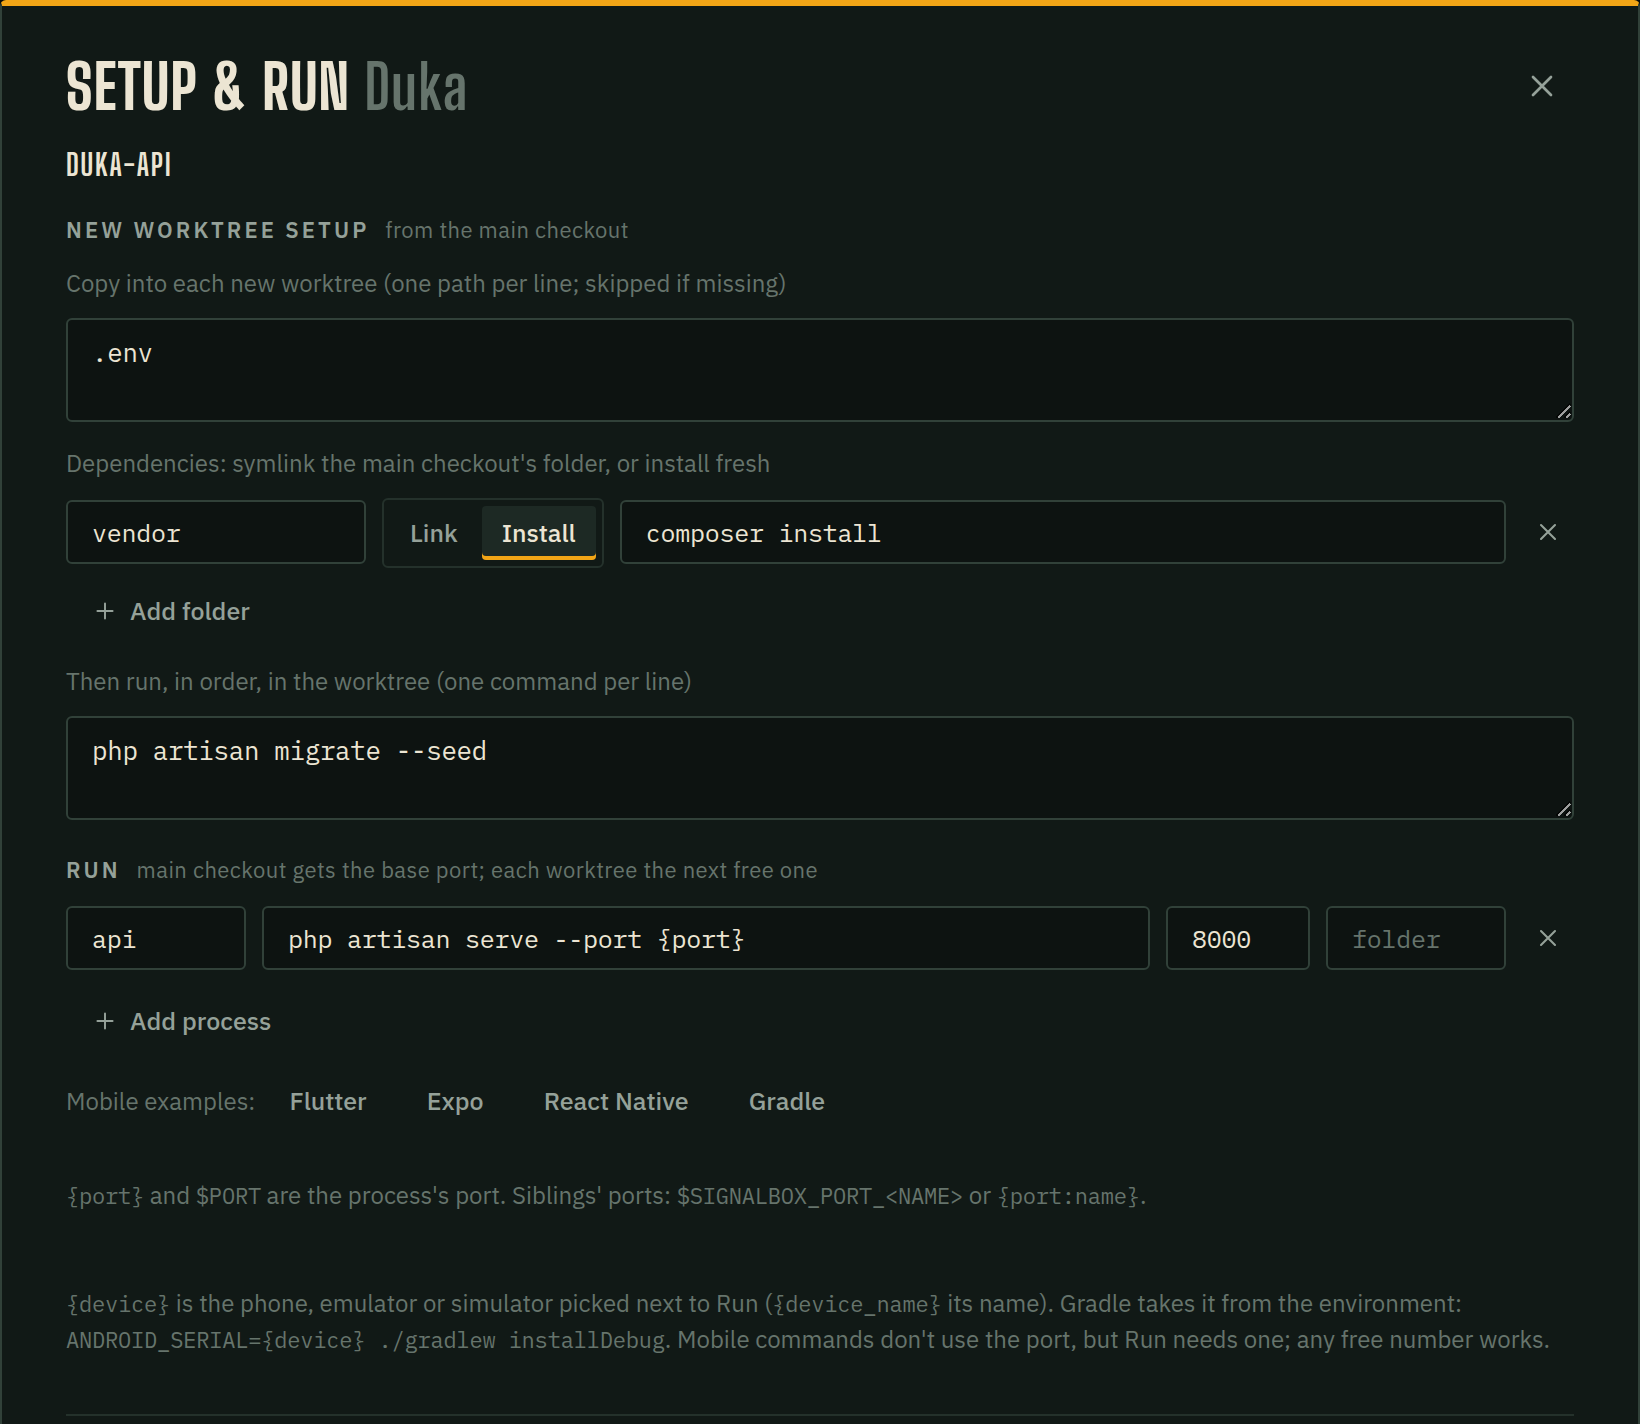
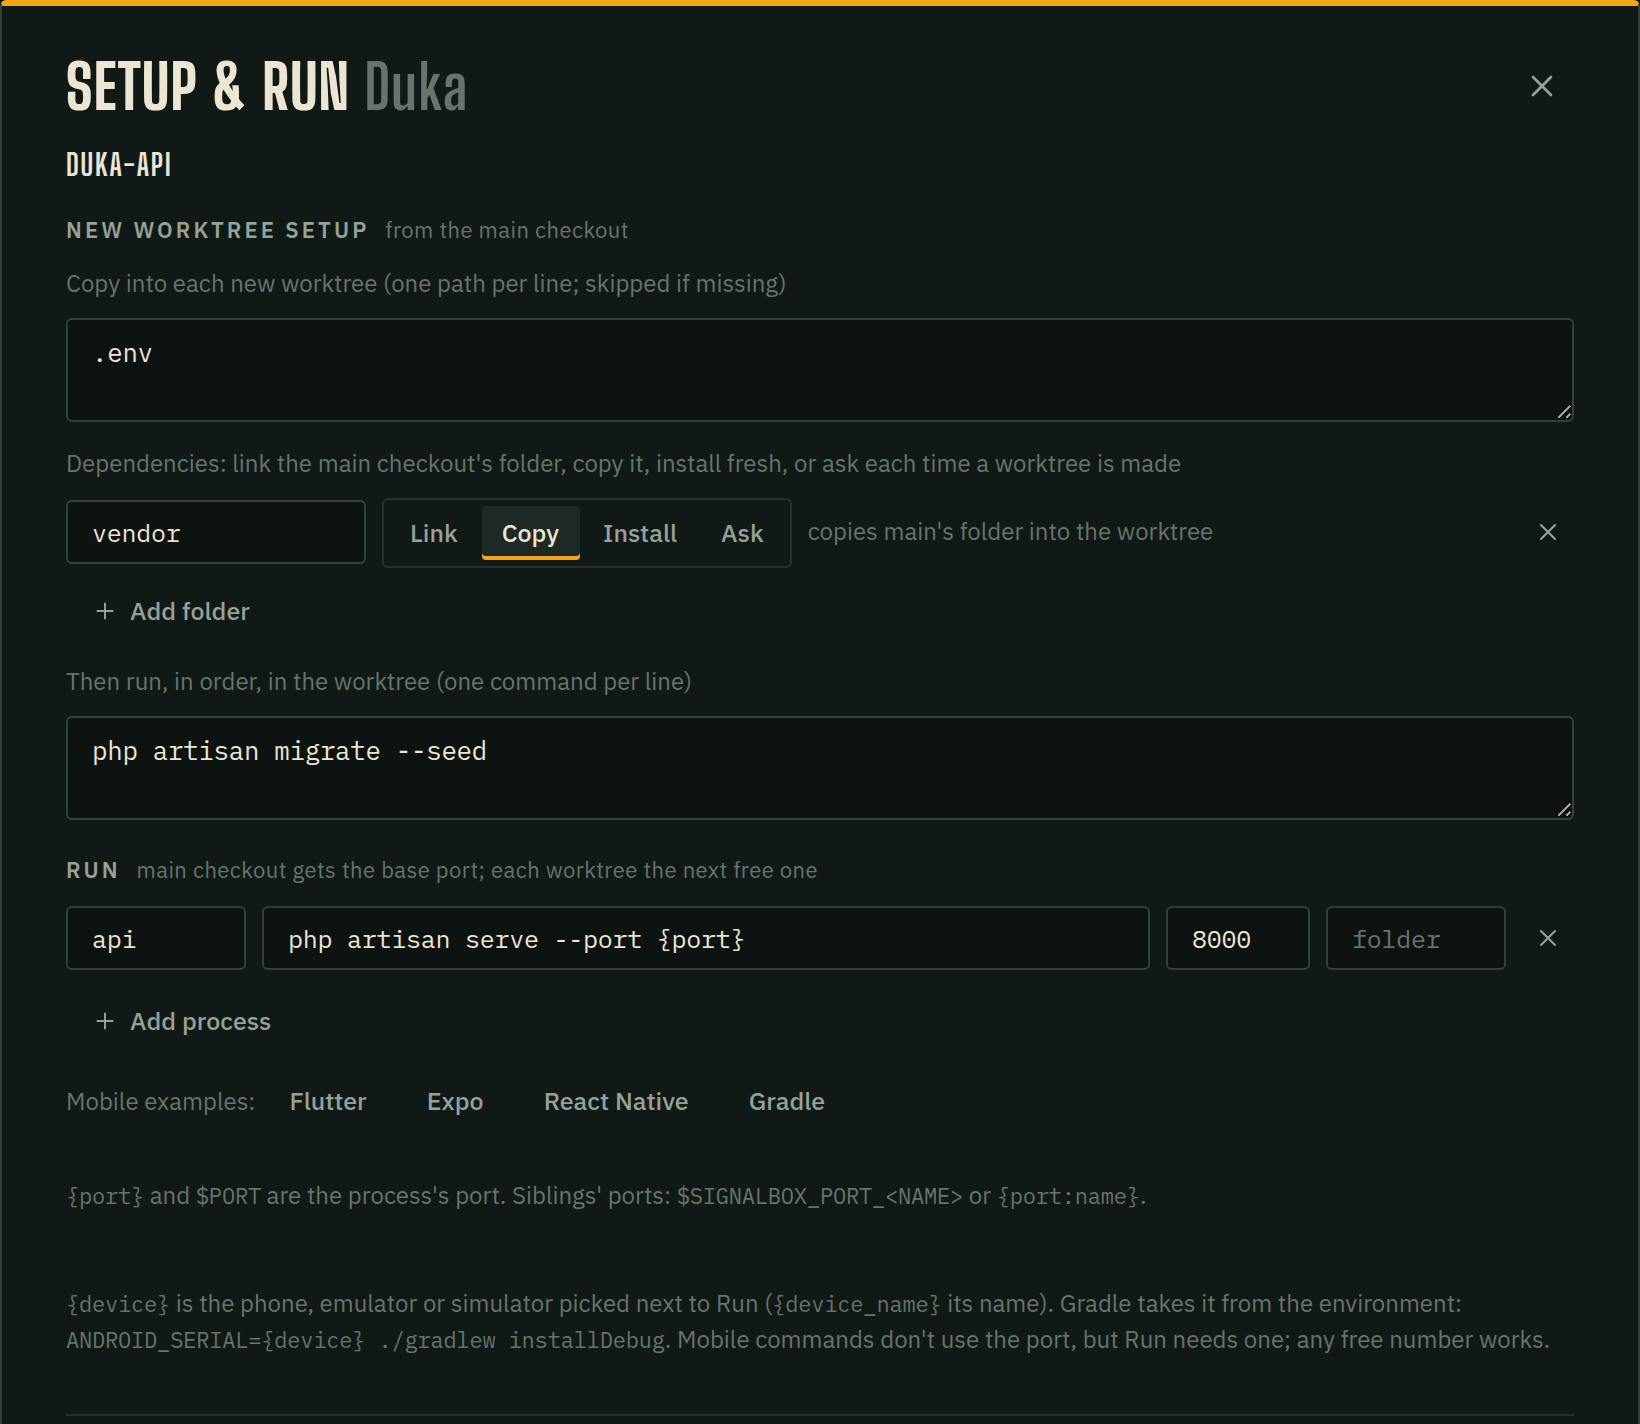
Sync from Signalbox v0.2.3

Changed region(s): [[0.1555, 0.309, 0.7152, 0.3399], [0.311, 0.3708, 0.7463, 0.4017]]

diff --git a/docs/manual/run-and-worktree-setup.md b/docs/manual/run-and-worktree-setup.md
@@ -2,7 +2,7 @@
 
 > Make new worktrees ready to use (.env, dependencies, setup commands), and run each checkout's dev servers on its own ports, or on a phone or emulator.
 
-Section: Work on code · Updated: 2026-11-23
+Section: Work on code · Updated: 2026-11-24
 
 A fresh worktree has your code but not your `.env` or installed dependencies, and two checkouts can't both run a dev server on the same port. Setup & run fixes both: a recipe that prepares each new worktree, and a **Run** button that starts the dev servers on free ports.
 
@@ -17,7 +17,7 @@ Either:
 
 ![The Setup & run settings for one repo: copy, dependencies, setup commands and run processes](images/setup-run.png)
 
-When a repo has nothing saved yet, Signalbox reads its main checkout and pre-fills what it recognises, such as Laravel, PHP, Vite or Next.js. Those repos show **pre-filled, not saved yet**. **Use detected** replaces a repo's settings with what was detected. Nothing is used until you click **Save**.
+When a repo has nothing saved yet, Signalbox reads its main checkout and pre-fills what it recognises, such as Laravel, PHP, Vite or Next.js. For a PHP project it sets `vendor` to **Copy**, and for a Node project it sets `node_modules` to **Link**. Those repos show **pre-filled, not saved yet**. **Use detected** replaces a repo's settings with what was detected. Nothing is used until you click **Save**.
 
 ## New worktree setup
 
@@ -26,23 +26,40 @@ This recipe runs every time Signalbox creates a worktree: from the **New ticket*
 Fill in, for each repo:
 
 1. **Copy into each new worktree:** one path per line, such as `.env`. Missing files are skipped.
-2. **Dependencies:** click **Add folder** for each one, type the folder (such as `node_modules`) and choose **Link** or **Install**. **Link** makes a symlink to the main checkout's copy: quick, and the two share it. **Install** runs a command instead, such as `npm ci` or `composer install`; it's skipped if the folder is already in the worktree.
+2. **Dependencies:** click **Add folder** for each one, type the folder (such as `node_modules`) and choose how it gets into the worktree:
+   - **Link** makes a symlink to the main checkout's folder. It's instant, and the two share it.
+   - **Copy** copies the main checkout's folder into the worktree. It's quick and needs no network, and the worktree gets its own copy. On disks that support it (APFS on macOS, Btrfs or XFS on Linux) the copy takes almost no extra space until files change.
+   - **Install** runs a command instead, such as `npm ci` or `composer install`.
+   - **Ask** asks you each time a worktree is made. See [Choose when the worktree is made](#choose-when-the-worktree-is-made).
+
+   Link, Copy and Install are skipped if the folder is already in the worktree.
 3. **Then run, in order, in the worktree:** one command per line, such as `php artisan key:generate`.
 4. Click **Save**.
 
-> **Warning:** Don't link `vendor` in a PHP project. PHP resolves symlinks, so the autoloader would load the main checkout's classes, not the worktree's. Signalbox flags this with **linked vendor autoloads main's code** and suggests `composer install` instead.
+> **Warning:** Don't link `vendor` in a PHP project. PHP resolves symlinks, so the autoloader would load the main checkout's classes, not the worktree's. Signalbox flags this with **linked vendor autoloads main's code**. Use **Copy** instead: a copied `vendor` loads the worktree's code, and it's much faster than `composer install`. Choose **Install** when the worktree's branch changes `composer.json` or `composer.lock`.
+
+### Choose when the worktree is made
+
+With a folder set to **Ask**, Signalbox asks before the setup runs. A small window lists each folder with **Link**, **Copy** and **Install**:
+
+1. Pick one for each folder. The one picked first is your last choice for that folder, or else what Signalbox would pick for it.
+2. To stop being asked, tick **Remember for this repo**. The folder is then set to your choice in the repo's settings. You can set it back to **Ask** in Setup & run.
+3. Click **Run setup**. Or click **Skip setup** to make the worktree without it; you can run it later.
+
+If Signalbox has no window open to ask in, each folder gets the choice that would have been picked first, and the Setup tab says so.
 
 ### What happens when a worktree is made
 
-1. Signalbox copies and links the files.
-2. It opens a **Setup** tab and runs the commands there, so you can watch. A message says "Setting up …: see its Setup tab".
-3. Each step shows ✓ or ✗. It ends with "✓ worktree ready", or stops at the first failing command.
+1. If a folder is set to **Ask**, Signalbox asks first.
+2. It copies and links the files.
+3. It opens a **Setup** tab and runs the commands there, so you can watch. A message says "Setting up …: see its Setup tab".
+4. Each step shows ✓ or ✗. It ends with "✓ worktree ready", or stops at the first failing command.
 
 Nothing is undone when a step fails. Fix the problem in the Setup tab's folder, then run the setup again.
 
 ### Run setup again
 
-In the rail, click the worktree under **Checkouts**, then **Run worktree setup**. It isn't offered for the main checkout.
+In the rail, click the worktree under **Checkouts**, then **Run worktree setup**. It isn't offered for the main checkout. Folders set to **Ask** are asked about here too.
 
 ## Run dev servers
 

diff --git a/README.md b/README.md
@@ -4,7 +4,7 @@ Signalbox is a desktop app for macOS and Linux that keeps your tickets, git bran
 
 ![The Signalbox board: loose ends grouped as held at develop or staging and pushed but not merged, each ticket with its branch's lamps on the track, and agent sessions running in the sidebar](docs/images/board.png)
 
-**[Download Signalbox 0.2.2](https://signalbox.accessa.co.ke/download/)** for macOS or Linux · [Website](https://signalbox.accessa.co.ke/) · [Guides](https://signalbox.accessa.co.ke/guides/) · [Changelog](CHANGELOG.md) · [Releases](https://github.com/Accessa-suite/signalbox-app/releases)
+**[Download Signalbox 0.2.3](https://signalbox.accessa.co.ke/download/)** for macOS or Linux · [Website](https://signalbox.accessa.co.ke/) · [Guides](https://signalbox.accessa.co.ke/guides/) · [Changelog](CHANGELOG.md) · [Releases](https://github.com/Accessa-suite/signalbox-app/releases)
 
 This repository holds Signalbox's releases, documentation and issue tracker. The source code isn't published here.
 
@@ -27,7 +27,7 @@ This repository holds Signalbox's releases, documentation and issue tracker. The
 
 ## Download and install
 
-The current version is **0.2.2**, released 23 November 2026. Download it from **[signalbox.accessa.co.ke/download](https://signalbox.accessa.co.ke/download/)**, where the files' SHA-256 checksums are listed, or from [GitHub Releases](https://github.com/Accessa-suite/signalbox-app/releases).
+The current version is **0.2.3**, released 24 November 2026. Download it from **[signalbox.accessa.co.ke/download](https://signalbox.accessa.co.ke/download/)**, where the files' SHA-256 checksums are listed, or from [GitHub Releases](https://github.com/Accessa-suite/signalbox-app/releases).
 
 Signalbox runs the coding agents you already use. Install at least one and log in to it: Claude Code (`claude`), Codex (`codex`), Gemini CLI (`gemini`) or opencode (`opencode`). You'll also want `git`, and `gh` if you use GitHub.
 

diff --git a/CHANGELOG.md b/CHANGELOG.md
@@ -2,6 +2,13 @@
 
 Every Signalbox release, newest first. Also on [the website](https://signalbox.accessa.co.ke/changelog/). Installed copies update themselves.
 
+## 0.2.3 (2026-11-24)
+
+- Worktree setup: each dependency folder can be linked, copied or installed, or Signalbox can ask you each time a worktree is made.
+- PHP vendor folders are copied by default, so the worktree runs its own code.
+
+Downloads: [macOS .dmg](https://signalbox.accessa.co.ke/updates/0.2.3/Signalbox_0.2.3_universal.dmg) · [Linux AppImage](https://signalbox.accessa.co.ke/updates/0.2.3/Signalbox_0.2.3_amd64.AppImage) · [Linux .deb](https://signalbox.accessa.co.ke/updates/0.2.3/Signalbox_0.2.3_amd64.deb)
+
 ## 0.2.2 (2026-11-23)
 
 - QA note: post it as a comment or put it in the task's description (add below, or replace).
